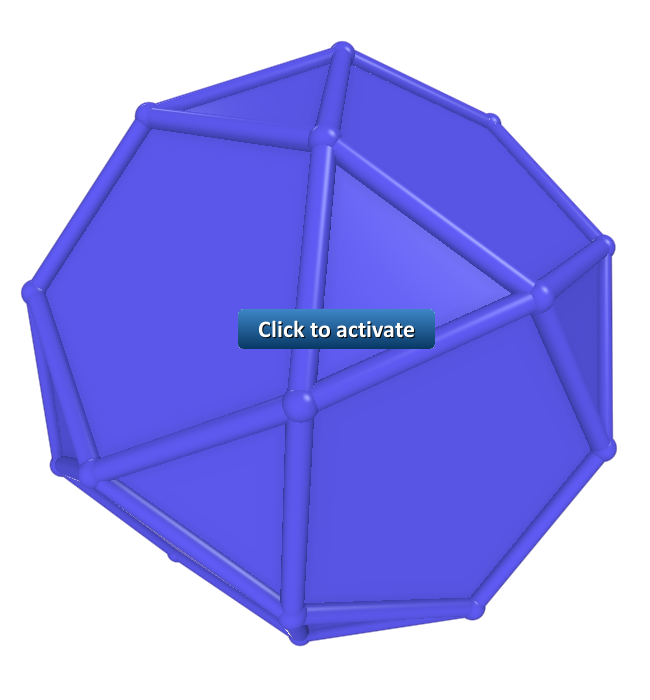
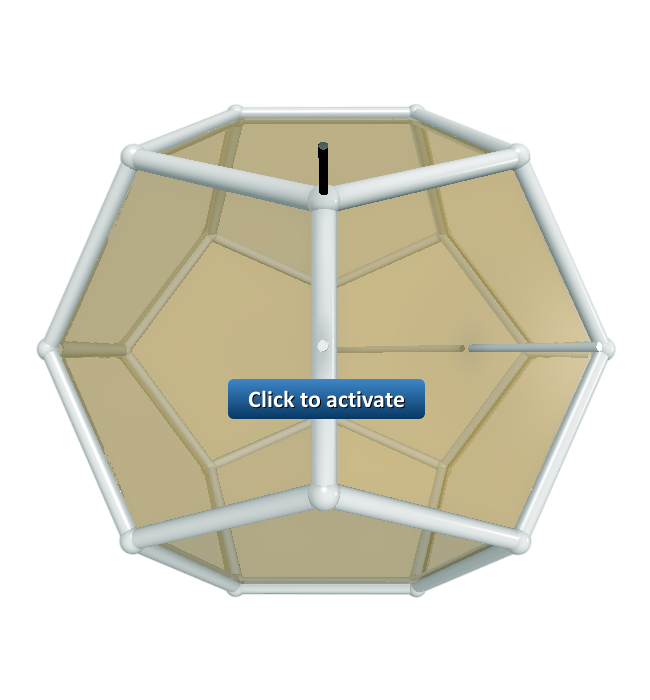
Updated ray tracing code

diff --git a/polytopes.html b/polytopes.html
@@ -251,7 +251,7 @@
 		<p>
 			For Coxeter groups, it is possible to identify all elements in the group, given the generators. The
 			<a href="https://en.wikipedia.org/wiki/Todd%E2%80%93Coxeter_algorithm">Todd-Coxeter Algorithm</a> provides a way to identify and count all elements generated by our generators.
-			(Quick digression: The Todd-Coxeter algorithm might be the first non-numerical algorithm to be implemented on a digital computer - using an
+			(Quick digression: The Todd-Coxeter algorithm was one of the first non-numerical algorithm to be implemented on a digital computer - using an
 					<a href="https://www.cambridge.org/core/journals/mathematical-proceedings-of-the-cambridge-philosophical-society/article/coset-enumeration-on-digital-computers/047323FB9415ACF3466E627590ABB790">
 						EDSAC 1 in 1953</a>)
 		</p>
@@ -575,7 +575,8 @@
 			in the blue and the green plane, but not in the
 			red plane. We do this by starting out with the three reflection plane normal vectors in the order blue, green, and red. After applying Gram-Schmidt
 			to this set of vectors, the last vector in the transformed set will be orthogonal to the blue and green reflection plane
-			normal vectors (and thus be located on the intersection of these two planes).
+			normal vectors (and thus be located on the intersection of these two planes). The advantage of using Gram-Schmidt is that we can generalize this to four dimensions - 
+			if we had used the cross product, that would not have been possible.
 		</p>
 		<p>The example below shows how this works for the dodecahedron. Like the cube, the dedocahedron can be generated by three generators,
 			 with angles 36, 60, and 90 degrees between the reflecting planes.</p>
@@ -662,6 +663,9 @@
 					document.getElementById("largeContainer").appendChild(container);
 
 					var scene = getStandard3DView(container, 600, 600);
+					scene.getCamera().position.set(2.0, 1.4, 1.4 * 3.5);
+					scene.getControls().update();
+				
 					var nG;
 					var nB;
 					var nR;
@@ -1208,6 +1212,7 @@
 				containerZ.innerHTML = "";
 				loadFiles(['vertex.glsl', 'polyhedron.glsl', 'simpleRaymarcher.glsl'], function (s) {
 					polyhedronScene = createFragmentShader(containerZ, 650, 700, s[0], s[1] + s[2], gui);
+						
 					polyhedronScene.addUniformsChangedListener( function() {
 						document.getElementById("coxeter").innerHTML = "";
 						var active = [polyhedronScene.params["U"]>0,polyhedronScene.params["V"]>0,polyhedronScene.params["W"]>0];
@@ -1260,7 +1265,8 @@
 						}
 						polyhedronScene.uniformsChanged();
 					});
-					polyhedronScene.getCamera().position.set(-1, 2, -0.5);
+					//polyhedronScene.getCamera().position.set(-1, 2, -0.5);
+					polyhedronScene.getCamera().position.set(0.0124,-0.017,2.411);
 					polyhedronScene.controls.update();
 					polyhedronScene.uniformsChanged();
 				});
@@ -1268,8 +1274,17 @@
 		</script>
 		<p>In the example above, the U, V, and W parameters control the position of the initial vertex as specified in a coordinate
 			system where each axis lives on the intersection of two reflection planes (the same coordinate system as 
-			defined in the dodehedron example with the red, green, and blue arrows - see
-			the Gram-Schmidt discussion above).</p>
+			defined in the dodecahedron example with the red, green, and blue arrows).
+			</p><p>
+			When the 'displayFundamental' option is enabled, the initial vertex will be displayed by a black line. 
+The U,V, and W vectors are shown as white lines, and define the fundamental region (and any pair of white lines span a reflection plane).
+</p><p>
+			
+When only U is enabled (i.e. non-zero), we get a regular polyhedron. But when we enable some of the other mirrors,
+we will get various <a href="https://en.wikipedia.org/wiki/Uniform_polyhedron">uniform polyhedra</a>. For instance, only enabling 
+W will give us the dual of the original regular polyhedron. Enabling U and V will give us a truncated polyhedron.
+			
+			</p>
 		<p>The Degree parameter controls one of the angles between the reflection planes (e.g. 3 = 60 degrees, 4 = 45 degrees, 5 = 36
 			degrees). The two other angles are always 90 degrees and 60 degrees.</p>
 			<p>Notice, that the resulting structures are all convex, but not necessarily regular polytopes.</p>

diff --git a/utils.js b/utils.js
@@ -250,6 +250,8 @@ function loadFiles(urls, callback) {
 
 
 function createFragmentShader(container, w, h, vertexShader, fragmentShader, folder) {
+	var showStats = false; // (typeof stats !== 'undefined');
+	
     var renderer = new THREE.WebGLRenderer({ alpha: true });
     renderer.setClearColor(0x000000, 0);
     renderer.setPixelRatio(window.devicePixelRatio);
@@ -294,8 +296,12 @@ function createFragmentShader(container, w, h, vertexShader, fragmentShader, fol
 
     // Controls
     var controls = new THREE.OrbitControls(camera, renderer.domElement);
+	
     scene.doRender = function () {
-        renderer.render(scene, camera)
+		if (showStats)
+			return;
+		
+	    renderer.render(scene, camera);        
     };
     scene.uniformsChangedListeners = [];
     scene.uniformsChanged = function() {
@@ -312,7 +318,16 @@ function createFragmentShader(container, w, h, vertexShader, fragmentShader, fol
     controls.enablePan = false;
     
     setTimeout(function () { scene.doRender(); });
+	
+	function animate() {
+		stats.begin();
+		renderer.render(scene, camera);        
+		stats.end();
+		requestAnimationFrame( animate );
+	}
 
+	if (showStats) requestAnimationFrame( animate );
+		
     scene.params = {};
 
     function extractUniforms( ) {
@@ -323,6 +338,8 @@ function createFragmentShader(container, w, h, vertexShader, fragmentShader, fol
     
         var currentFolder = folder;
         
+		var knownFolders = {};
+		
         var lines = fragmentShader.split('\n');
         lines.forEach(function (line) {
             let m;
@@ -370,8 +387,11 @@ function createFragmentShader(container, w, h, vertexShader, fragmentShader, fol
     
             while ((m = controlGroup.exec(line)) !== null) {
                 var name = m[1];
-                currentFolder = folder.addFolder(name);
-                currentFolder.open();   
+				if (knownFolders[name] === undefined) {
+					knownFolders[name] = folder.addFolder(name); 
+				}
+				currentFolder = knownFolders[name];
+				currentFolder.open();			
             }
         })
     }
